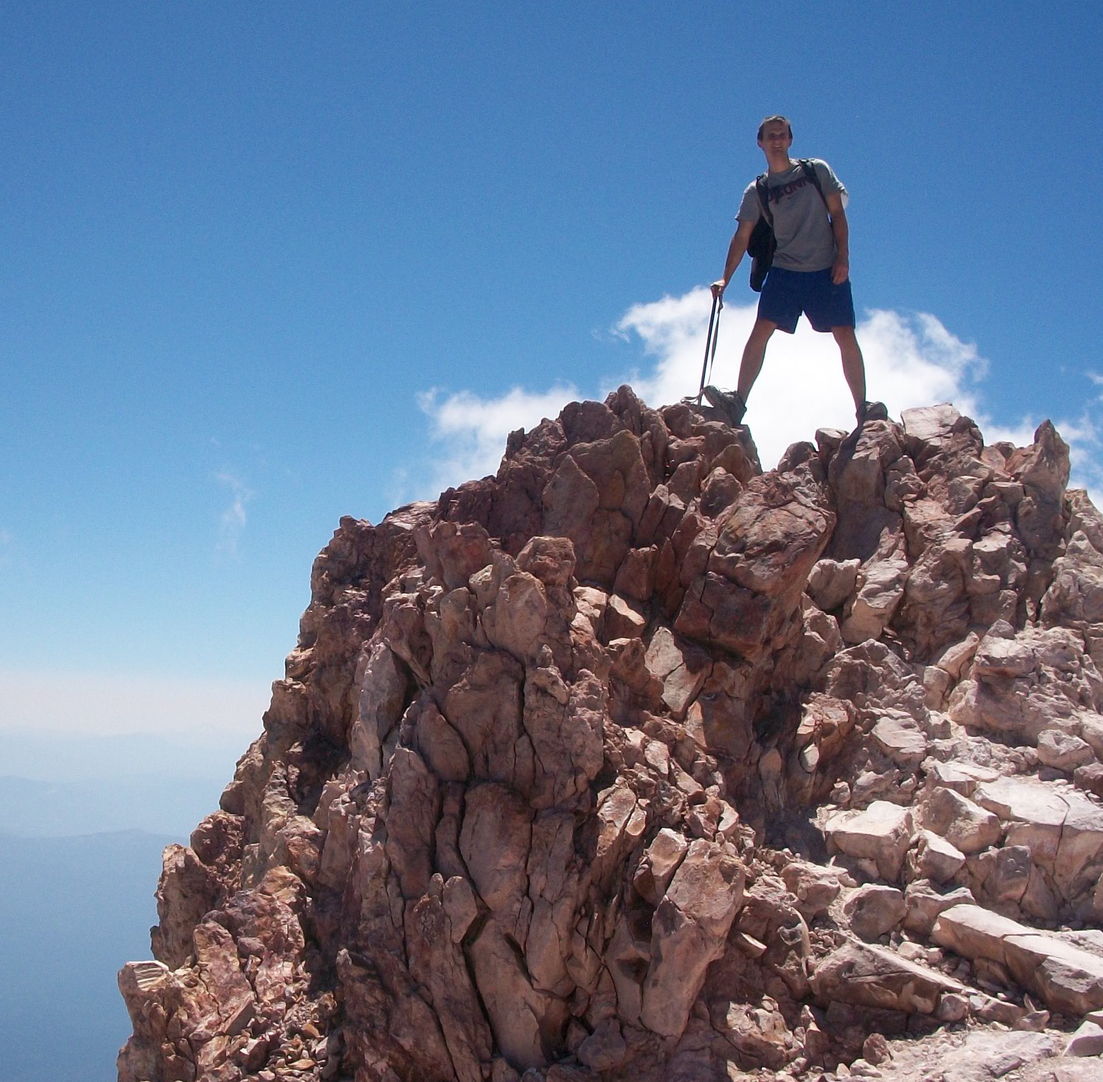
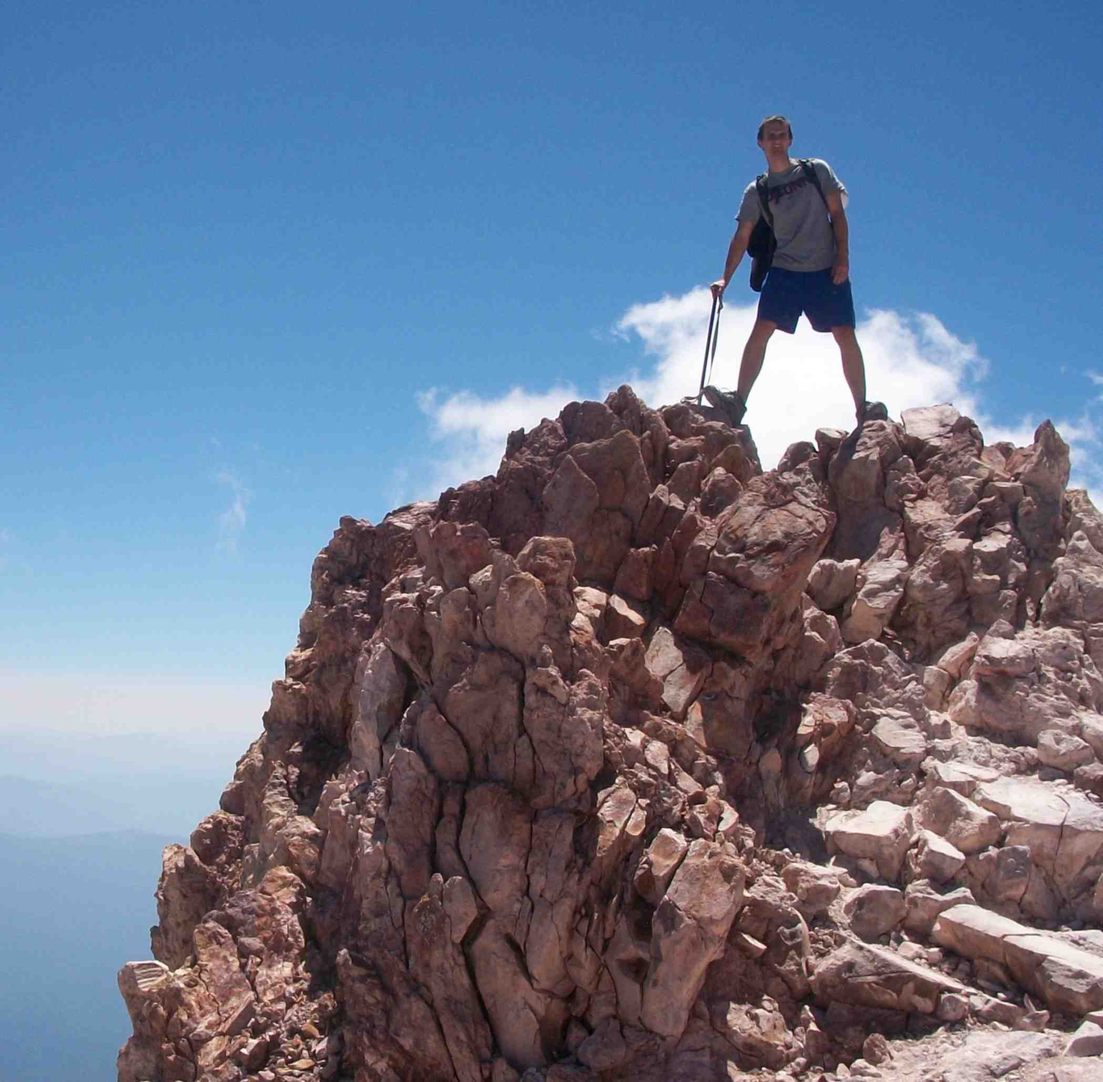
Compressed images

Changed region(s): [[0.2479, 0.9014, 0.2788, 1.0], [0.6816, 0.8082, 0.7126, 0.8392], [0.6196, 0.3108, 0.6506, 0.3419]]

diff --git a/_site/index.html b/_site/index.html
@@ -25,7 +25,7 @@
 
 
 
-  <meta property="og:image" content="http://localhost:4000/assets/images/about_header.png">
+  <meta property="og:image" content="http://localhost:4000/assets/images/about_header.jpg">
 
 
 
@@ -168,7 +168,7 @@
   style=" "
 >
   
-    <img src="/assets/images/about_header.png" alt="" class="page__hero-image">
+    <img src="/assets/images/about_header.jpg" alt="" class="page__hero-image">
   
   
 </div>

diff --git a/_site/projects/index.html b/_site/projects/index.html
@@ -341,7 +341,7 @@
       <div class="archive__item">
         
           <div class="archive__item-teaser">
-            <img src="/assets/images/projects/pulse.png" alt="placeholder image 2" />
+            <img src="/assets/images/projects/pulse.jpg" alt="placeholder image 2" />
             
           </div>
         

diff --git a/index.md b/index.md
@@ -2,7 +2,7 @@
 permalink: / 
 title: "" 
 header: 
-  image: /assets/images/about_header.png
+  image: /assets/images/about_header.jpg
 author_profile: true
 
 ---
